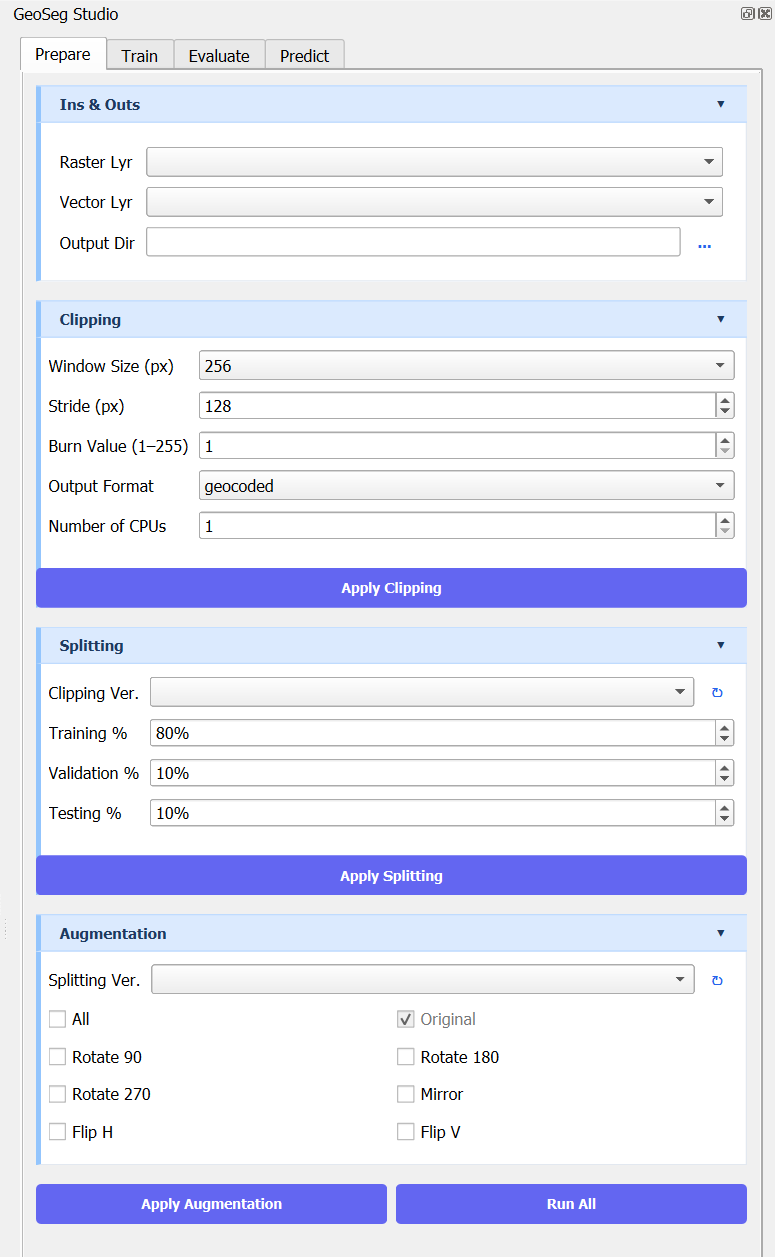
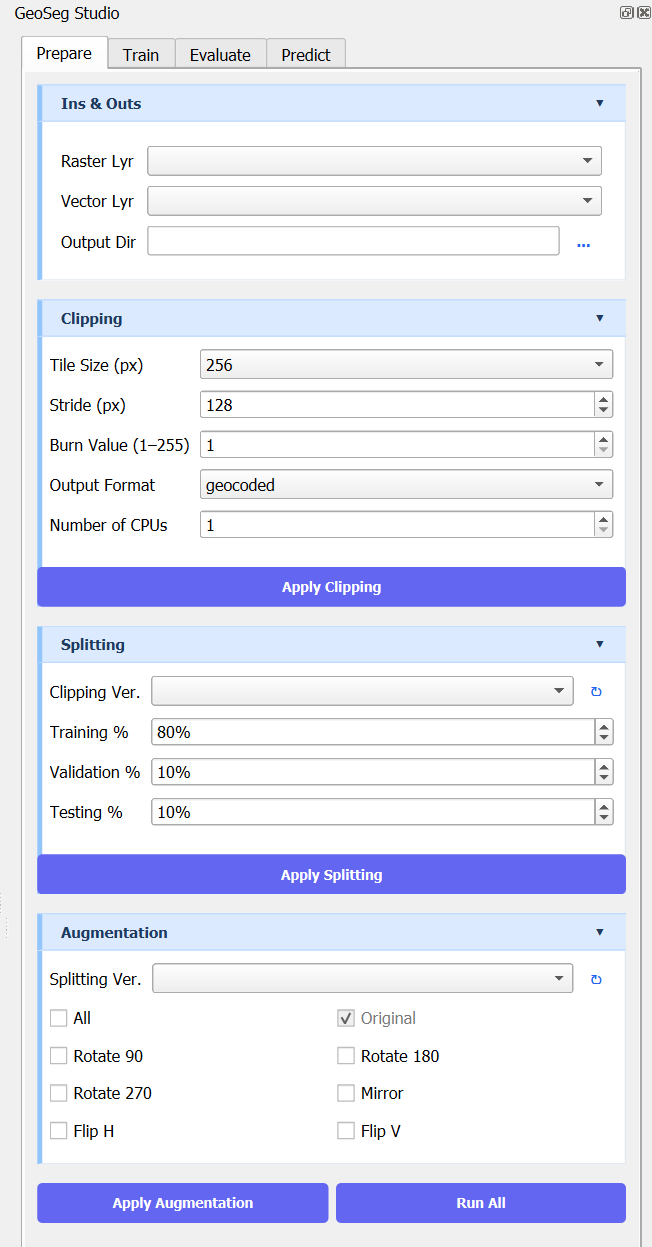
UI and docs improvements: OOM error handling, Tile Size label, word wrap
- Intercept CUDA out-of-memory errors in TrainingWorker and emit a clean
  actionable message with reduce-batch-size / smaller-tile suggestions
- Add setWordWrap to Run & Monitor status label to prevent horizontal stretch
- Rename 'Window Size' to 'Tile Size' in Prepare tab Clipping section
- Update README: QGIS minimum version 3.34, new Prepare tab screenshot

Changed region(s): [[0.0, 0.0, 0.9816, 1.0], [0.8896, 0.1219, 0.9509, 0.1828], [0.9509, 0.0, 1.0, 0.0305]]

diff --git a/DL/trainer.py b/DL/trainer.py
@@ -101,7 +101,18 @@ class TrainingWorker(QThread):
         try:
             self._train()
         except Exception as exc:
-            self.training_finished.emit(False, str(exc))
+            msg = str(exc)
+            if "out of memory" in msg.lower() or "cuda" in type(exc).__name__.lower():
+                self.training_finished.emit(
+                    False,
+                    "CUDA out of memory.\n\n"
+                    "Suggestions:\n"
+                    "  • Reduce Batch Size to 1 in Training Configuration\n"
+                    "  • Use smaller tiles (512×512 or 256×256) in the Prepare tab\n"
+                    "  • Switch to CPU if your dataset is small",
+                )
+            else:
+                self.training_finished.emit(False, msg)
 
     # -------------------------------------------------------------------------
     # Main training loop

diff --git a/ui/tab1_clipping.py b/ui/tab1_clipping.py
@@ -22,7 +22,7 @@ class ClippingWidget(QWidget):
         self.content = SectionContentWidget()
         form = self.content.layout()
 
-        # Window Size — restricted to sizes supported by all model
+        # Tile Size — restricted to sizes supported by all model
         # architectures
         self.window_size = QComboBox()
         for size in SUPPORTED_SIZES:
@@ -34,7 +34,7 @@ class ClippingWidget(QWidget):
             "architectures are available: " +
             ", ".join(
                 str(s) for s in SUPPORTED_SIZES))
-        form.addRow("Window Size (px)", self.window_size)
+        form.addRow("Tile Size (px)", self.window_size)
 
         # Stride
         self.stride = QSpinBox()

diff --git a/ui/tab2_run_monitor.py b/ui/tab2_run_monitor.py
@@ -96,6 +96,7 @@ class RunMonitorWidget(QWidget):
         # --- Status label ----------------------------------------------------
         self.status_label = QLabel("")
         self.status_label.setAlignment(Qt.AlignCenter)
+        self.status_label.setWordWrap(True)
         self.status_label.setVisible(False)
         inner_layout.addWidget(self.status_label)
 

diff --git a/README.md b/README.md
@@ -42,7 +42,7 @@ Developed and maintained by [Dronnix](https://www.dronnix.com) — a drone mappi
 | Requirement | Minimum |
 |-------------|---------|
 | Operating System | Windows 10 / 11 |
-| QGIS | 3.10 or later |
+| QGIS | 3.34 or later |
 | Python | 3.9+ (bundled with QGIS) |
 | GPU (optional) | NVIDIA GPU with CUDA 11.8, 12.1, or 12.4 |
 | RAM | 8 GB minimum, 16 GB recommended |
